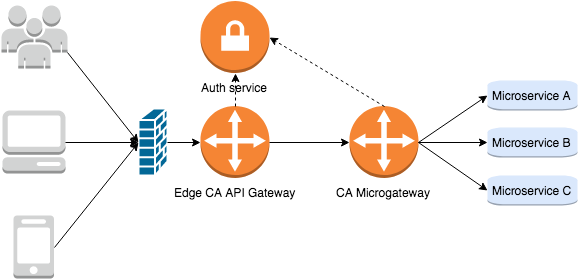
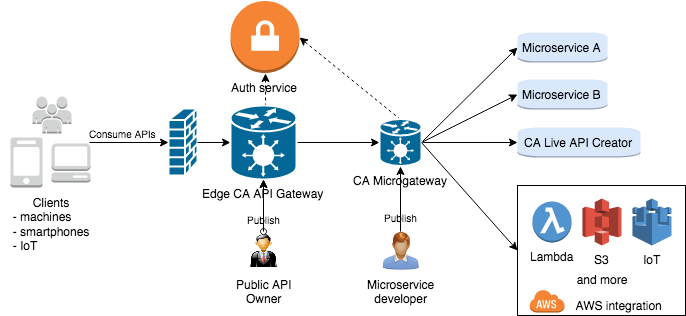
README: update diagram

diff --git a/README.md b/README.md
@@ -21,7 +21,7 @@ CA Microgateway provides secure service mesh for microservices with rich functio
 More features, including the Policy Manager needed to extend CA Microgateway, are available in the [free trial version](https://www.ca.com/us/trials/ca-microgateway.html).
 
 <p align="center">
-<img src="img/Microgateway_Deployment.png" alt="CA Microgateway" title="CA Microgateway" />
+<img src="img/ca-microgateway-diagram_draw-io.png" alt="CA Microgateway" title="CA Microgateway" />
 </p>
 
 ### Benefits <a name="benefits"></a>
